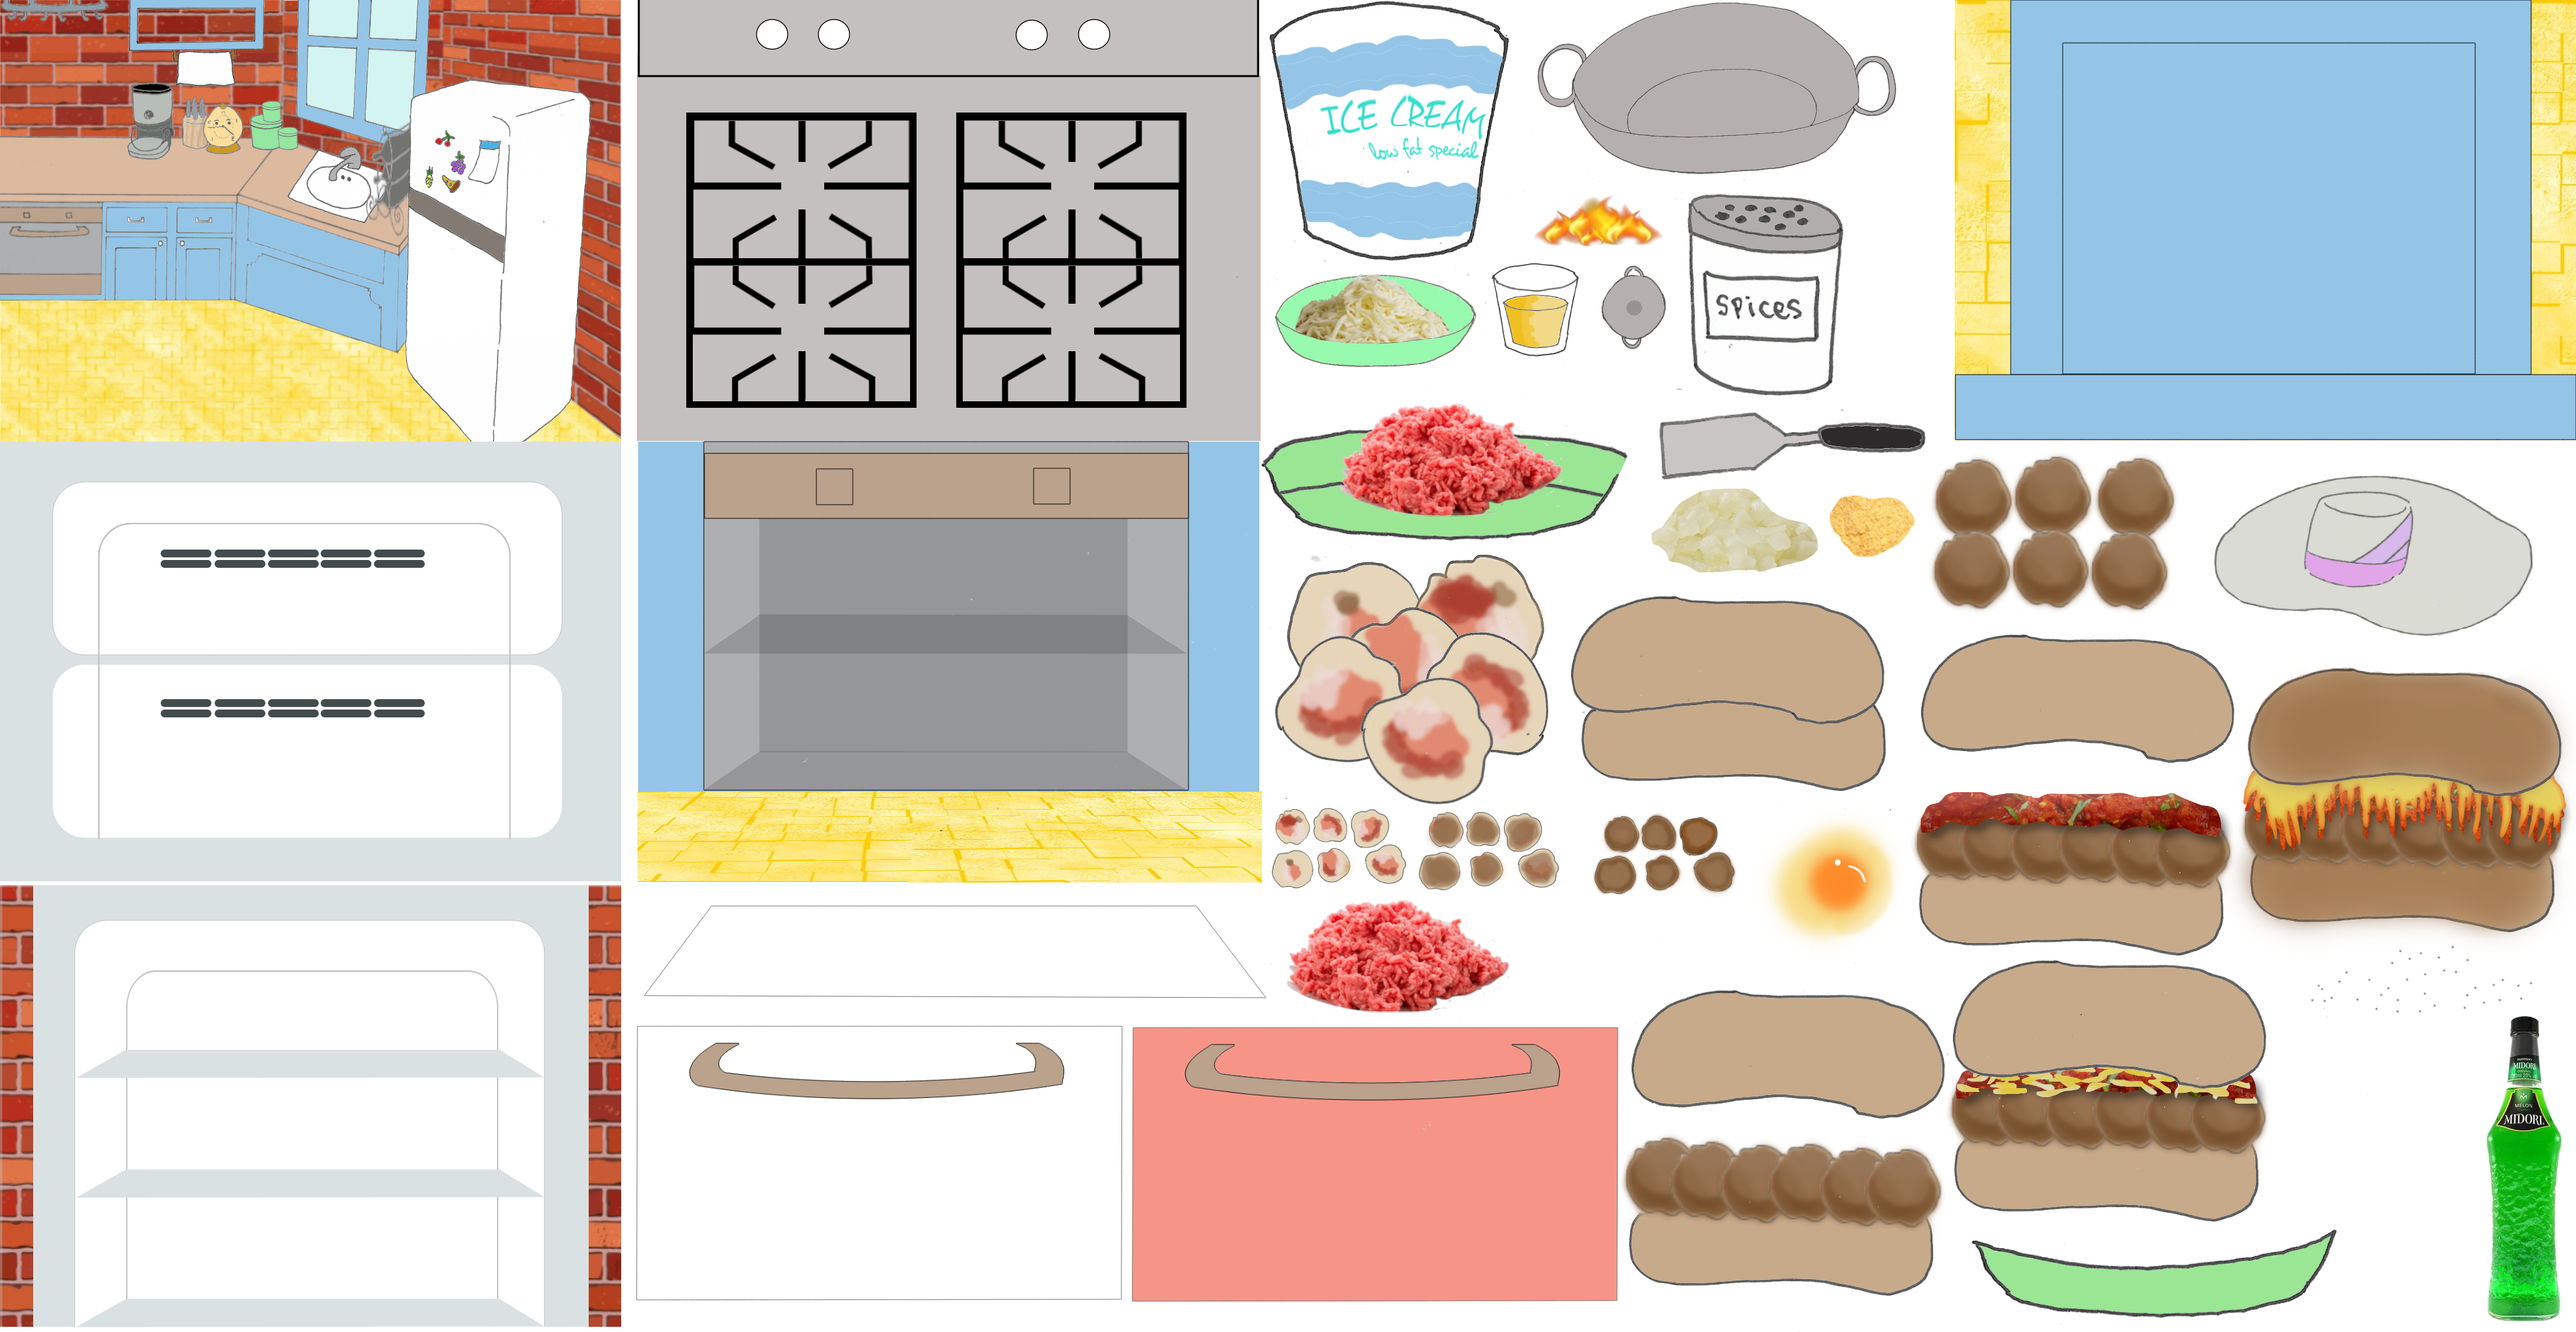
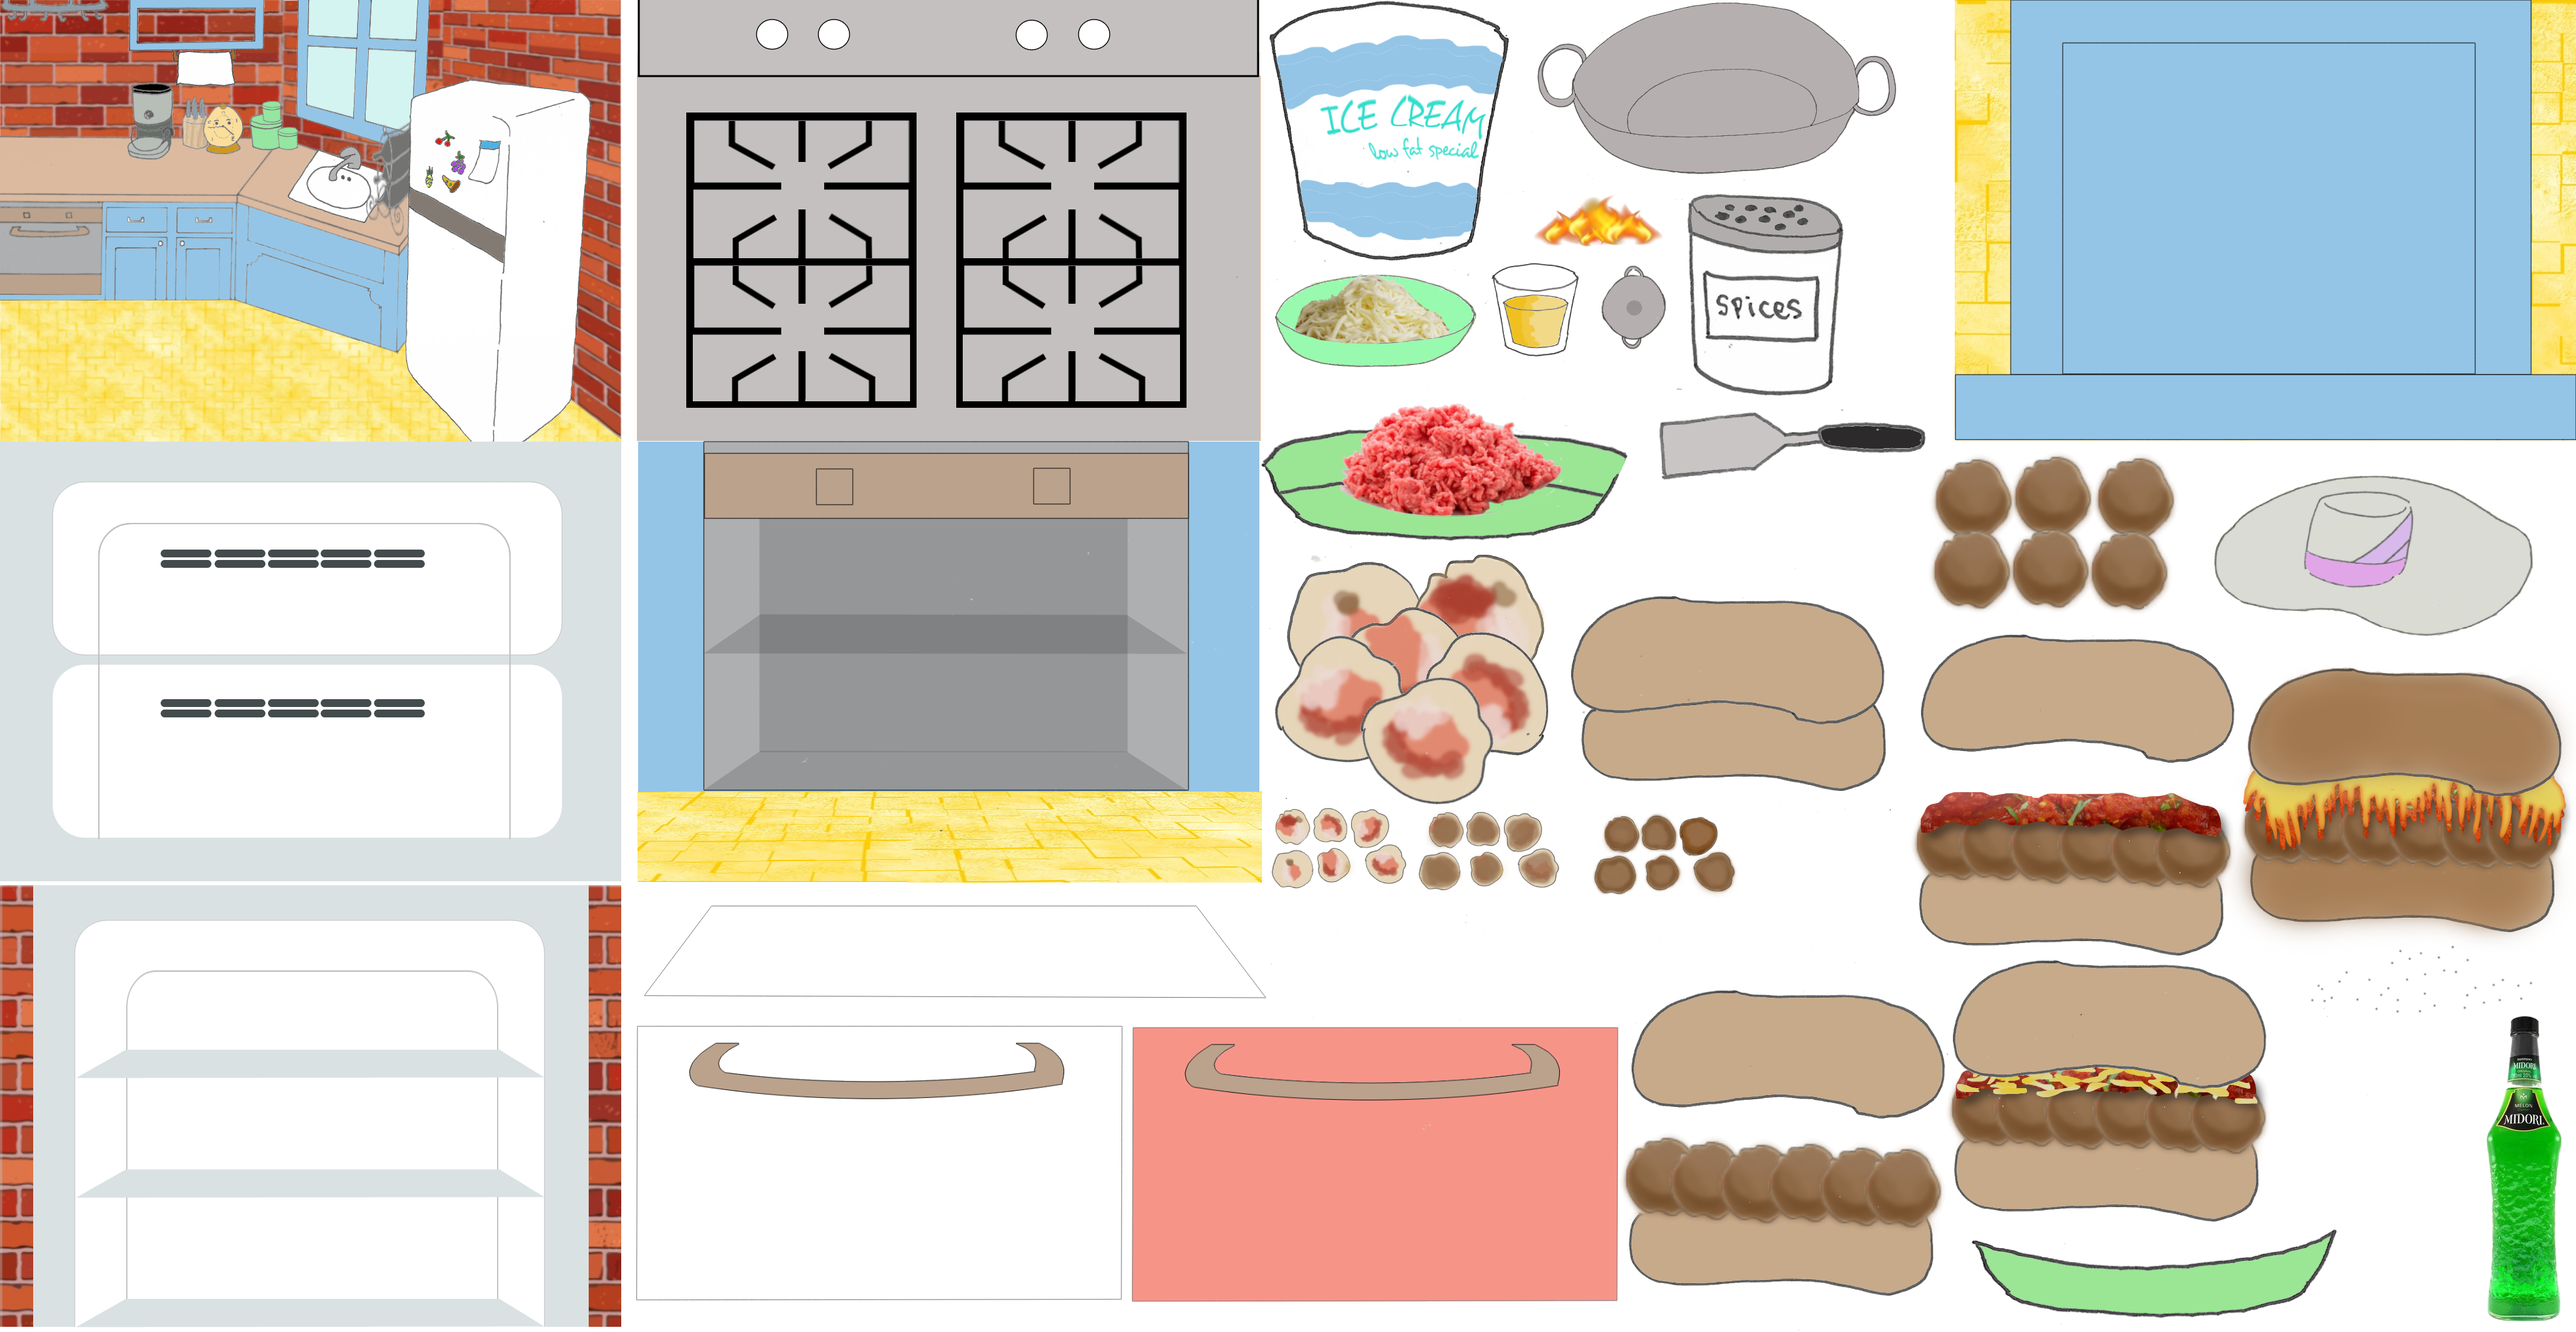
Update assets and test meatball mixture

Changed region(s): [[0.6212, 0.3438, 0.7455, 0.4375], [0.497, 0.6562, 0.5902, 0.7812], [0.6833, 0.625, 0.7455, 0.7188]]

diff --git a/scripts/kitchenLoader.js b/scripts/kitchenLoader.js
@@ -121,13 +121,7 @@ function loadKitchen(tilesheet) {
     },
     { // Spices
       ...base,
-      onClick: function(x, y, gameState) {
-        if (this.state === this.INITIAL && this[this.state].isWithinBounds(x, y)) {
-          removeOnce(gameState.layers[gameState.currentRoom].sprites, this);
-          gameState.inventoryItems.push(this);
-          return true;
-        }
-      },
+      onClick: pickUp,
       states: {
         INITIAL: {
           name: Names.SPICES,
@@ -141,6 +135,15 @@ function loadKitchen(tilesheet) {
           [Displays.STORED]: {
             scale: 0.27,
           },
+        },
+        FINAL: {
+          name: Names.MIXED_SPICES,
+          x: 100,
+          y: 30,
+          sourceWidth: 355,
+          sourceHeight: 106,
+          sourceX: 3541,
+          sourceY: 1452,
         }
       },
     }
@@ -340,7 +343,7 @@ function loadBlueDrawer2(tilesheet) {
 }
 
 function loadFreezer(tilesheet) {
-  const base = { img: tilesheet };
+  const base = { img: tilesheet };/*
   const mixture = [
     {
       ...base,
@@ -357,31 +360,8 @@ function loadFreezer(tilesheet) {
       }
     }, {
       ...base,
-      states: {
-        INITIAL: {
-          name: Names.CRACKED_EGG,
-          x: 18,
-          y: 18,
-          sourceWidth: 202,
-          sourceHeight: 191,
-          sourceX: 2715,
-          sourceY: 1259,
-        }
-      }
-    }, {
-      ...base,
-      states: {
-        INITIAL: {
-          name: Names.MIXED_SPICES,
-          x: 100,
-          y: 30,
-          sourceWidth: 355,
-          sourceHeight: 106,
-          sourceX: 3541,
-          sourceY: 1452,
-        }
-      }
-    }, {
+    }, 
+     {
       ...base,
       states: {
         INITIAL: {
@@ -395,11 +375,21 @@ function loadFreezer(tilesheet) {
         }
       }
     },
-  ].map(sprite => craftSprite(sprite));
+  ].map(sprite => craftSprite(sprite));*/
   const mincedBeef = craftSprite({
     ...base,
     onClick: function(x, y, gameState) {
       if (this.state === this.INITIAL) {
+        const spices = combo(gameState, this, Names.SPICES)
+          || combo(gameState, this, Names.EGG);
+        if (spices) {
+          spices.state = spices.FINAL;
+          removeOnce(gameState.inventoryItems, spices);
+          this[this.state].sprites.push(spices);
+          gameState.examinedInventoryItem = this;
+          return true;
+        }
+        
         if (pickUp.bind(this)(x, y, gameState)) {
           return true;
         }

diff --git a/scripts/livingRoomLoader.js b/scripts/livingRoomLoader.js
@@ -85,19 +85,29 @@ function loadLivingRoom(tilesheet) {
         if (this.state === this.HOLDING && isWithinRectBounds(x, y, 653, 452, 40, 15)) {
           const egg = craftSprite({
             img: tilesheet,
-          }, {
-            INITIAL: {
-              name: Names.EGG,
-              description: "The man's got an egg",
-              x: 653,
-              y: 452,
-              sourceX: 827,
-              sourceY: 1637,
-              sourceWidth: 255,
-              sourceHeight: 339,
-              scale: 0.5,
-              [Displays.STORED]: {
-                scale: 0.2,
+            states: {
+              INITIAL: {
+                name: Names.EGG,
+                description: "The man's got an egg",
+                x: 653,
+                y: 452,
+                sourceX: 827,
+                sourceY: 1637,
+                sourceWidth: 255,
+                sourceHeight: 339,
+                scale: 0.5,
+                [Displays.STORED]: {
+                  scale: 0.2,
+                },
+              },
+              FINAL: {
+                name: Names.CRACKED_EGG,
+                x: 18,
+                y: 18,
+                sourceWidth: 194,
+                sourceHeight: 186,
+                sourceX: 1332,
+                sourceY: 447,
               },
             },
           });
@@ -347,7 +357,6 @@ function loadLaptop(tilesheet) {
       ...base,
       onClick: function(x, y, gameState) {
         if (this.state === this.INITIAL) {
-          console.log(x, y);
           if (isWithinRectBounds(x, y, 270, 428, 50, 50)) {
             this[this.state].sprites.pop();
             return true;
@@ -377,7 +386,6 @@ function loadLaptop(tilesheet) {
                     }
                   }
                 ));
-                console.log(this[this.state].sprites.map(sprite => sprite.name).join(","))
                 if (this[this.state].sprites.map(sprite => sprite.name).join(",") === "1,8,13,6") {
                   this.state = this.FINAL;
                 }

diff --git a/gameLauncher.js b/gameLauncher.js
@@ -154,7 +154,6 @@ function launch() {
     const x = e.pageX - canvas.offsetLeft - canvas.clientLeft;
     const y = e.pageY - canvas.offsetTop - canvas.clientTop;
     const sprites = gameState.layers[gameState.currentRoom].sprites;
-
     if (isWithinRectBounds(x, y, 0, 677, 955, 100)) {
       if (isWithinRectBounds(x, y, inventory.prevArrowX, inventory.arrowY, inventory.arrow.width, inventory.arrow.height)) {
         gameState.page -= 1;
@@ -177,7 +176,7 @@ function launch() {
             gameState.examinedInventoryItem = sprite;
             gameState.selectedInventoryItem = null;
           } else if (gameState.examinedInventoryItem === sprite) {
-            gameState.examinedInventoryItem =null;
+            gameState.examinedInventoryItem = null;
           } else {
             gameState.selectedInventoryItem = sprite;
           }
@@ -195,6 +194,13 @@ function launch() {
         gameState.examinedInventoryItem = null;
         render();
         return;
+      }
+      if (gameState.selectedInventoryItem) {
+        if (!gameState.examinedInventoryItem.onClick(x, y, gameState)) {
+          gameState.selectedInventoryItem.onClick(x, y, gameState);
+        }
+        gameState.selectedInventoryItem = null;
+        render();
       }
       return;
     }

diff --git a/scripts/helper.js b/scripts/helper.js
@@ -83,10 +83,24 @@ function removeOnce(arr, value) {
 }
 
 function pickUp(x, y, gameState, state = this.INITIAL) {
-  if (this.state === state && this[this.state].isWithinBounds(x, y)) {
+  if (gameState.examinedInventoryItem !== this
+    && gameState.selectedInventoryItem !== this
+    && this.state === state
+    && this[this.state].isWithinBounds(x, y)
+  ) {
     removeOnce(gameState.layers[gameState.currentRoom].sprites, this);
     gameState.inventoryItems.push(this);
     return true;
   }
   return false;
 };
+
+function combo(gameState, sprite1, sprite2Name) {
+  if (gameState.examinedInventoryItem === sprite1 && gameState.selectedInventoryItem && gameState.selectedInventoryItem.name === sprite2Name) {
+    return gameState.selectedInventoryItem;
+  }
+  if (gameState.selectedInventoryItem === sprite1 && gameState.examinedInventoryItem && gameState.examinedInventoryItem.name === sprite2Name) {
+    return gameState.examinedInventoryItem;
+  }
+  return false;
+}
